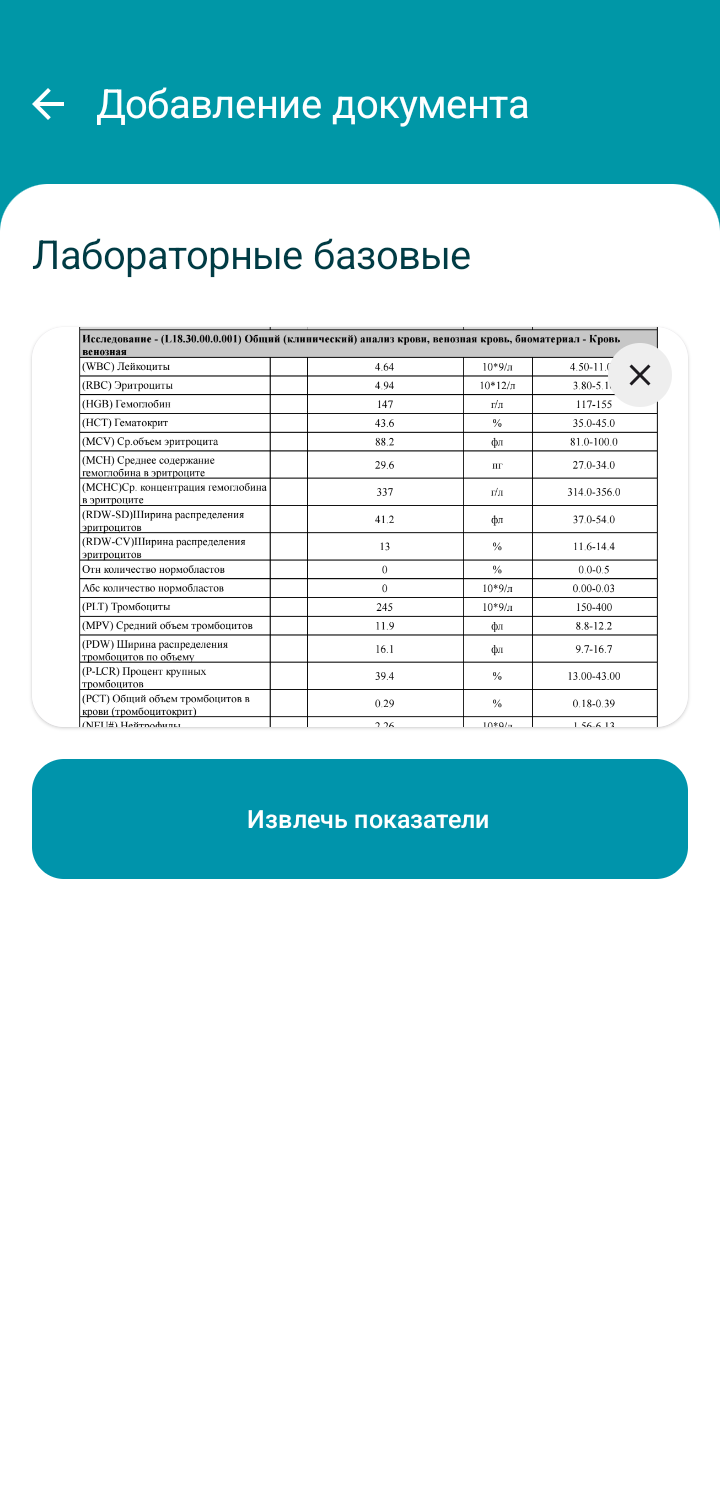
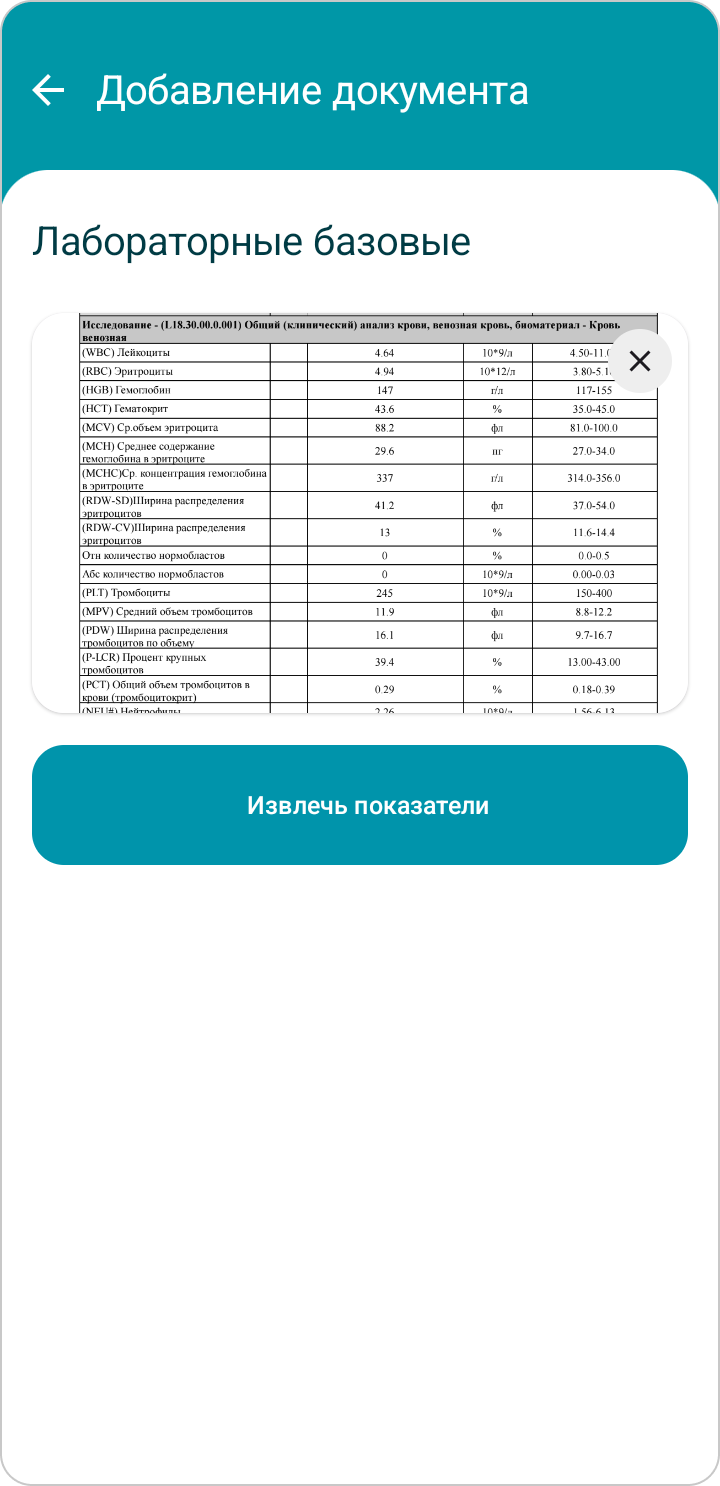
fix: update simplicity screenshots

Changed region(s): [[0.0306, 0.1548, 0.9472, 0.5882], [0.0, 0.0, 1.0, 1.0], [0.0, 0.0, 0.0306, 0.031]]

diff --git a/index.html b/index.html
@@ -168,7 +168,7 @@
               <img
                 src="./public/screenshots/food1.png"
                 width="720"
-                height="1500"
+                height="1486"
                 alt="Экран добавления блюда в дневник питания"
                 loading="lazy"
                 decoding="async"
@@ -176,7 +176,7 @@
               <img
                 src="./public/screenshots/food2.png"
                 width="720"
-                height="1500"
+                height="1486"
                 alt="Экран расчёта КБЖУ для блюда"
                 loading="lazy"
                 decoding="async"
@@ -198,7 +198,7 @@
               <img
                 src="./public/screenshots/habits1.png"
                 width="720"
-                height="1500"
+                height="1486"
                 alt="Недельный прогресс по выбранным привычкам"
                 loading="lazy"
                 decoding="async"
@@ -222,7 +222,7 @@
               <img
                 src="./public/screenshots/doc1.png"
                 width="720"
-                height="1500"
+                height="1486"
                 alt="Экран выбора способа загрузки анализов"
                 loading="lazy"
                 decoding="async"
@@ -230,7 +230,7 @@
               <img
                 src="./public/screenshots/doc2.png"
                 width="720"
-                height="1500"
+                height="1486"
                 alt="Экран распознанных результатов анализа"
                 loading="lazy"
                 decoding="async"
@@ -254,7 +254,7 @@
               <img
                 src="./public/screenshots/integration1.png"
                 width="720"
-                height="1500"
+                height="1486"
                 alt="Настройки подключённых устройств и Health Connect"
                 loading="lazy"
                 decoding="async"

diff --git a/tests/landing.test.js b/tests/landing.test.js
@@ -477,7 +477,7 @@ test("simplicity replaces the task directory with four editorial chapters", () =
     for (const screenshot of screenshots) {
       assert.deepEqual(
         pngSize(new URL(`../public/screenshots/${screenshot}`, import.meta.url)),
-        { width: 720, height: 1500 },
+        { width: 720, height: 1486 },
         screenshot,
       );
     }
